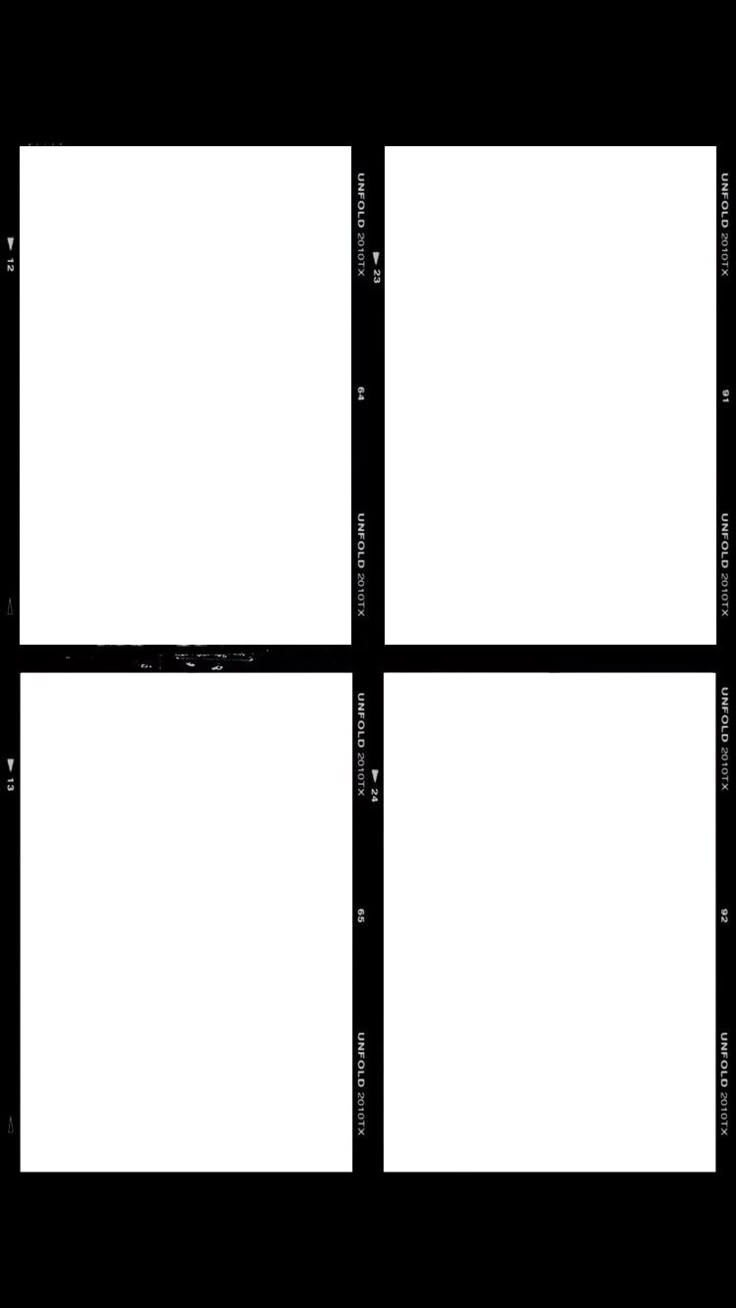
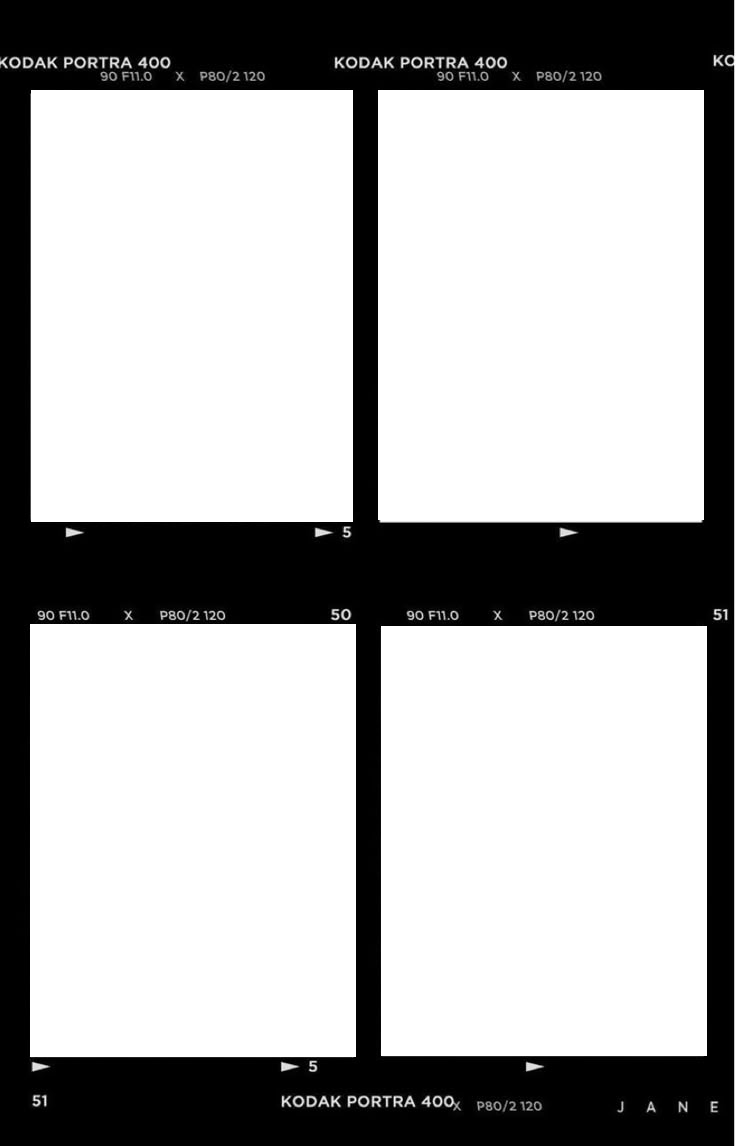
udaate preset

Changed region(s): [[0.0, 0.0305, 1.0, 0.9773], [0.9688, 0.9468, 1.0, 0.9773], [0.9688, 0.0305, 1.0, 0.0611]]

diff --git a/presets/presets.js b/presets/presets.js
@@ -176,10 +176,10 @@ export const presets = [
     originalWidth: 400,
     originalHeight: 600,
     slots: [
-      { x: 30, y: 40, width: 120, height: 160 },
-      { x: 180, y: 40, width: 120, height: 160 },
-      { x: 180, y: 40, width: 120, height: 160 },
-      { x: 30, y: 40, width: 120, height: 160 }
+      { x: 28, y: 92, width: 323, height: 430 },
+      { x: 28, y: 92, width: 323, height: 430 },
+      { x: 28, y: 92, width: 323, height: 430 },
+      { x: 28, y: 92, width: 323, height: 430 }
     ],
   },
   {
@@ -189,9 +189,9 @@ export const presets = [
     originalWidth: 400,
     originalHeight: 600,
     slots: [
-      { x: 30, y: 40, width: 120, height: 160 },
-      { x: 180, y: 40, width: 120, height: 160 },
-      { x: 180, y: 40, width: 120, height: 160 }
+      { x: 38, y: 37, width: 652, height: 421 },
+      { x: 38, y: 37, width: 652, height: 421 },
+      { x: 38, y: 37, width: 652, height: 421 }
     ],
   },
   {
@@ -201,9 +201,9 @@ export const presets = [
     originalWidth: 400,
     originalHeight: 600,
     slots: [
-      { x: 30, y: 40, width: 120, height: 160 },
-      { x: 180, y: 40, width: 120, height: 160 },
-      { x: 180, y: 40, width: 120, height: 160 }
+      { x: 38, y: 37, width: 652, height: 421 },
+      { x: 38, y: 37, width: 652, height: 421 },
+      { x: 38, y: 37, width: 652, height: 421 }
     ],
   },
   {
@@ -213,14 +213,14 @@ export const presets = [
     originalWidth: 400,
     originalHeight: 600,
     slots: [
-      { x: 30, y: 40, width: 120, height: 160 },
-      { x: 180, y: 40, width: 120, height: 160 },
-      { x: 180, y: 40, width: 120, height: 160 },
-      { x: 30, y: 40, width: 120, height: 160 },
-      { x: 180, y: 40, width: 120, height: 160 },
-      { x: 180, y: 40, width: 120, height: 160 },
-      { x: 30, y: 40, width: 120, height: 160 },
-      { x: 180, y: 40, width: 120, height: 160 }
+      { x: 387, y: 31, width: 329, height: 238 },
+      { x: 387, y: 31, width: 329, height: 238 },
+      { x: 387, y: 31, width: 329, height: 238 },
+      { x: 387, y: 31, width: 329, height: 238 },
+      { x: 387, y: 31, width: 329, height: 238 },
+      { x: 387, y: 31, width: 329, height: 238 },
+      { x: 387, y: 31, width: 329, height: 238 },
+      { x: 387, y: 31, width: 329, height: 238 }
     ],
   },
   {
@@ -230,12 +230,12 @@ export const presets = [
     originalWidth: 400,
     originalHeight: 600,
     slots: [
-      { x: 30, y: 40, width: 120, height: 160 },
-      { x: 180, y: 40, width: 120, height: 160 },
-      { x: 180, y: 40, width: 120, height: 160 },
-      { x: 30, y: 40, width: 120, height: 160 },
-      { x: 180, y: 40, width: 120, height: 160 },
-      { x: 180, y: 40, width: 120, height: 160 }
+      { x: 154, y: 232, width: 193, height: 173 },
+      { x: 154, y: 232, width: 193, height: 173 },
+      { x: 154, y: 232, width: 193, height: 173 },
+      { x: 154, y: 232, width: 193, height: 173 },
+      { x: 154, y: 232, width: 193, height: 173 },
+      { x: 154, y: 232, width: 193, height: 173 }
     ],
   },
   {
@@ -245,14 +245,14 @@ export const presets = [
     originalWidth: 400,
     originalHeight: 600,
     slots: [
-      { x: 30, y: 40, width: 120, height: 160 },
-      { x: 180, y: 40, width: 120, height: 160 },
-      { x: 180, y: 40, width: 120, height: 160 },
-      { x: 30, y: 40, width: 120, height: 160 },
-      { x: 180, y: 40, width: 120, height: 160 },
-      { x: 180, y: 40, width: 120, height: 160 },
-      { x: 180, y: 40, width: 120, height: 160 },
-      { x: 180, y: 40, width: 120, height: 160 }
+      { x: 33, y: 206, width: 302, height: 195 },
+      { x: 33, y: 206, width: 302, height: 195 },
+      { x: 33, y: 206, width: 302, height: 195 },
+      { x: 33, y: 206, width: 302, height: 195 },
+      { x: 33, y: 206, width: 302, height: 195 },
+      { x: 33, y: 206, width: 302, height: 195 },
+      { x: 33, y: 206, width: 302, height: 195 },
+      { x: 33, y: 206, width: 302, height: 195 }
     ],
   },
   {
@@ -262,8 +262,8 @@ export const presets = [
     originalWidth: 400,
     originalHeight: 600,
     slots: [
-      { x: 30, y: 40, width: 120, height: 160 },
-      { x: 180, y: 40, width: 120, height: 160 }
+      { x: 34, y: 35, width: 672, height: 551 },
+      { x: 30, y: 601, width: 680, height: 549 }
     ],
   },
   {
@@ -273,10 +273,10 @@ export const presets = [
     originalWidth: 400,
     originalHeight: 600,
     slots: [
-      { x: 30, y: 40, width: 120, height: 160 },
-      { x: 180, y: 40, width: 120, height: 160 },
-      { x: 30, y: 40, width: 120, height: 160 },
-      { x: 180, y: 40, width: 120, height: 160 }
+      { x: 244, y: 43, width: 274, height: 190 },
+      { x: 244, y: 43, width: 274, height: 190 },
+      { x: 244, y: 43, width: 274, height: 190 },
+      { x: 244, y: 43, width: 274, height: 190 }
     ],
   },
   {
@@ -286,10 +286,10 @@ export const presets = [
     originalWidth: 400,
     originalHeight: 600,
     slots: [
-      { x: 30, y: 40, width: 120, height: 160 },
-      { x: 180, y: 40, width: 120, height: 160 },
-      { x: 30, y: 40, width: 120, height: 160 },
-      { x: 180, y: 40, width: 120, height: 160 }
+      { x: 20, y: 143, width: 330, height: 503 },
+      { x: 20, y: 143, width: 330, height: 503 },
+      { x: 20, y: 143, width: 330, height: 503 },
+      { x: 20, y: 143, width: 330, height: 503 }
     ],
   },
   {
@@ -299,10 +299,10 @@ export const presets = [
     originalWidth: 400,
     originalHeight: 600,
     slots: [
-      { x: 30, y: 40, width: 120, height: 160 },
-      { x: 180, y: 40, width: 120, height: 160 },
-      { x: 30, y: 40, width: 120, height: 160 },
-      { x: 180, y: 40, width: 120, height: 160 }
+      { x: 36, y: 49, width: 309, height: 451 },
+      { x: 36, y: 49, width: 309, height: 451 },
+      { x: 36, y: 49, width: 309, height: 451 },
+      { x: 36, y: 49, width: 309, height: 451 }
     ],
   },
   {
@@ -312,57 +312,10 @@ export const presets = [
     originalWidth: 400,
     originalHeight: 600,
     slots: [
-      { x: 30, y: 40, width: 120, height: 160 },
-      { x: 180, y: 40, width: 120, height: 160 },
-      { x: 30, y: 40, width: 120, height: 160 },
-      { x: 180, y: 40, width: 120, height: 160 }
-    ],
-  },
-  {
-    id: 27,
-    label: "Khung cơ bản đen",
-    image: require("../assets/27.png"),
-    originalWidth: 400,
-    originalHeight: 600,
-    slots: [
-      { x: 30, y: 40, width: 120, height: 160 },
-      { x: 180, y: 40, width: 120, height: 160 },
-      { x: 30, y: 40, width: 120, height: 160 },
-      { x: 180, y: 40, width: 120, height: 160 }
-    ],
-  },
-  {
-    id: 28,
-    label: "Khung cơ bản đen",
-    image: require("../assets/27.png"),
-    originalWidth: 400,
-    originalHeight: 600,
-    slots: [
-      { x: 30, y: 40, width: 120, height: 160 },
-      { x: 180, y: 40, width: 120, height: 160 },
-      { x: 30, y: 40, width: 120, height: 160 },
-      { x: 180, y: 40, width: 120, height: 160 },
-      { x: 30, y: 40, width: 120, height: 160 },
-      { x: 180, y: 40, width: 120, height: 160 },
-      { x: 30, y: 40, width: 120, height: 160 },
-      { x: 180, y: 40, width: 120, height: 160 }
-    ],
-  },
-  {
-    id: 29,
-    label: "Khung dễ thương",
-    image: require("../assets/27.png"),
-    originalWidth: 400,
-    originalHeight: 600,
-    slots: [
-      { x: 30, y: 40, width: 120, height: 160 },
-      { x: 180, y: 40, width: 120, height: 160 },
-      { x: 30, y: 40, width: 120, height: 160 },
-      { x: 180, y: 40, width: 120, height: 160 },
-      { x: 30, y: 40, width: 120, height: 160 },
-      { x: 180, y: 40, width: 120, height: 160 },
-      { x: 30, y: 40, width: 120, height: 160 },
-      { x: 180, y: 40, width: 120, height: 160 }
+      { x: 40, y: 43, width: 328, height: 431 },
+      { x: 40, y: 43, width: 328, height: 431 },
+      { x: 40, y: 43, width: 328, height: 431 },
+      { x: 40, y: 43, width: 328, height: 431 }
     ],
   },
   {
@@ -372,26 +325,14 @@ export const presets = [
     originalWidth: 400,
     originalHeight: 600,
     slots: [
-      { x: 30, y: 40, width: 120, height: 160 },
-      { x: 180, y: 40, width: 120, height: 160 },
-      { x: 30, y: 40, width: 120, height: 160 },
-      { x: 180, y: 40, width: 120, height: 160 },
-      { x: 30, y: 40, width: 120, height: 160 },
-      { x: 180, y: 40, width: 120, height: 160 },
-      { x: 30, y: 40, width: 120, height: 160 },
-      { x: 180, y: 40, width: 120, height: 160 }
-    ],
-  },
-  {
-    id: 31,
-    label: "Khung cơ bản đen",
-    image: require("../assets/31.png"),
-    originalWidth: 400,
-    originalHeight: 600,
-    slots: [
-      { x: 30, y: 40, width: 120, height: 160 },
-      { x: 180, y: 40, width: 120, height: 160 },
-      { x: 30, y: 40, width: 120, height: 160 }
+      { x: 28, y: 61, width: 358, height: 261 },
+      { x: 28, y: 61, width: 358, height: 261 },
+      { x: 28, y: 61, width: 358, height: 261 },
+      { x: 28, y: 61, width: 358, height: 261 },
+      { x: 28, y: 61, width: 358, height: 261 },
+      { x: 28, y: 61, width: 358, height: 261 },
+      { x: 28, y: 61, width: 358, height: 261 },
+      { x: 28, y: 61, width: 358, height: 261 }
     ],
   },
   {
@@ -401,44 +342,14 @@ export const presets = [
     originalWidth: 400,
     originalHeight: 600,
     slots: [
-      { x: 30, y: 40, width: 120, height: 160 },
-      { x: 180, y: 40, width: 120, height: 160 },
-      { x: 30, y: 40, width: 120, height: 160 },
-      { x: 180, y: 40, width: 120, height: 160 },
-      { x: 30, y: 40, width: 120, height: 160 },
-      { x: 180, y: 40, width: 120, height: 160 },
-      { x: 30, y: 40, width: 120, height: 160 },
-      { x: 180, y: 40, width: 120, height: 160 }
-    ],
-  },
-  {
-    id: 33,
-    label: "Khung dễ thương",
-    image: require("../assets/33.png"),
-    originalWidth: 400,
-    originalHeight: 600,
-    slots: [
-      { x: 30, y: 40, width: 120, height: 160 },
-      { x: 180, y: 40, width: 120, height: 160 },
-      { x: 30, y: 40, width: 120, height: 160 },
-      { x: 180, y: 40, width: 120, height: 160 }
-    ],
-  },
-  {
-    id: 34,
-    label: "Khung dễ thương",
-    image: require("../assets/34.png"),
-    originalWidth: 400,
-    originalHeight: 600,
-    slots: [
-      { x: 30, y: 40, width: 120, height: 160 },
-      { x: 180, y: 40, width: 120, height: 160 },
-      { x: 30, y: 40, width: 120, height: 160 },
-      { x: 180, y: 40, width: 120, height: 160 },
-      { x: 30, y: 40, width: 120, height: 160 },
-      { x: 180, y: 40, width: 120, height: 160 },
-      { x: 30, y: 40, width: 120, height: 160 },
-      { x: 180, y: 40, width: 120, height: 160 }
+      { x: 42, y: 119, width: 450, height: 322 },
+      { x: 42, y: 119, width: 450, height: 322 },
+      { x: 42, y: 119, width: 450, height: 322 },
+      { x: 42, y: 119, width: 450, height: 322 },
+      { x: 42, y: 119, width: 450, height: 322 },
+      { x: 42, y: 119, width: 450, height: 322 },
+      { x: 42, y: 119, width: 450, height: 322 },
+      { x: 42, y: 119, width: 450, height: 322 }
     ],
   },
   {
@@ -448,26 +359,14 @@ export const presets = [
     originalWidth: 400,
     originalHeight: 600,
     slots: [
-      { x: 30, y: 40, width: 120, height: 160 },
-      { x: 180, y: 40, width: 120, height: 160 },
-      { x: 30, y: 40, width: 120, height: 160 },
-      { x: 180, y: 40, width: 120, height: 160 },
-      { x: 30, y: 40, width: 120, height: 160 },
-      { x: 180, y: 40, width: 120, height: 160 },
-      { x: 30, y: 40, width: 120, height: 160 },
-      { x: 180, y: 40, width: 120, height: 160 }
-    ],
-  },
-  {
-    id: 36,
-    label: "Khung dễ thương",
-    image: require("../assets/36.png"),
-    originalWidth: 400,
-    originalHeight: 600,
-    slots: [
-      { x: 30, y: 40, width: 120, height: 160 },
-      { x: 180, y: 40, width: 120, height: 160 },
-      { x: 30, y: 40, width: 120, height: 160 },
+      { x: 36, y: 26, width: 331, height: 223 },
+      { x: 36, y: 26, width: 331, height: 223 },
+      { x: 36, y: 26, width: 331, height: 223 },
+      { x: 36, y: 26, width: 331, height: 223 },
+      { x: 36, y: 26, width: 331, height: 223 },
+      { x: 36, y: 26, width: 331, height: 223 },
+      { x: 36, y: 26, width: 331, height: 223 },
+      { x: 36, y: 26, width: 331, height: 223 }
     ],
   },
 ];
